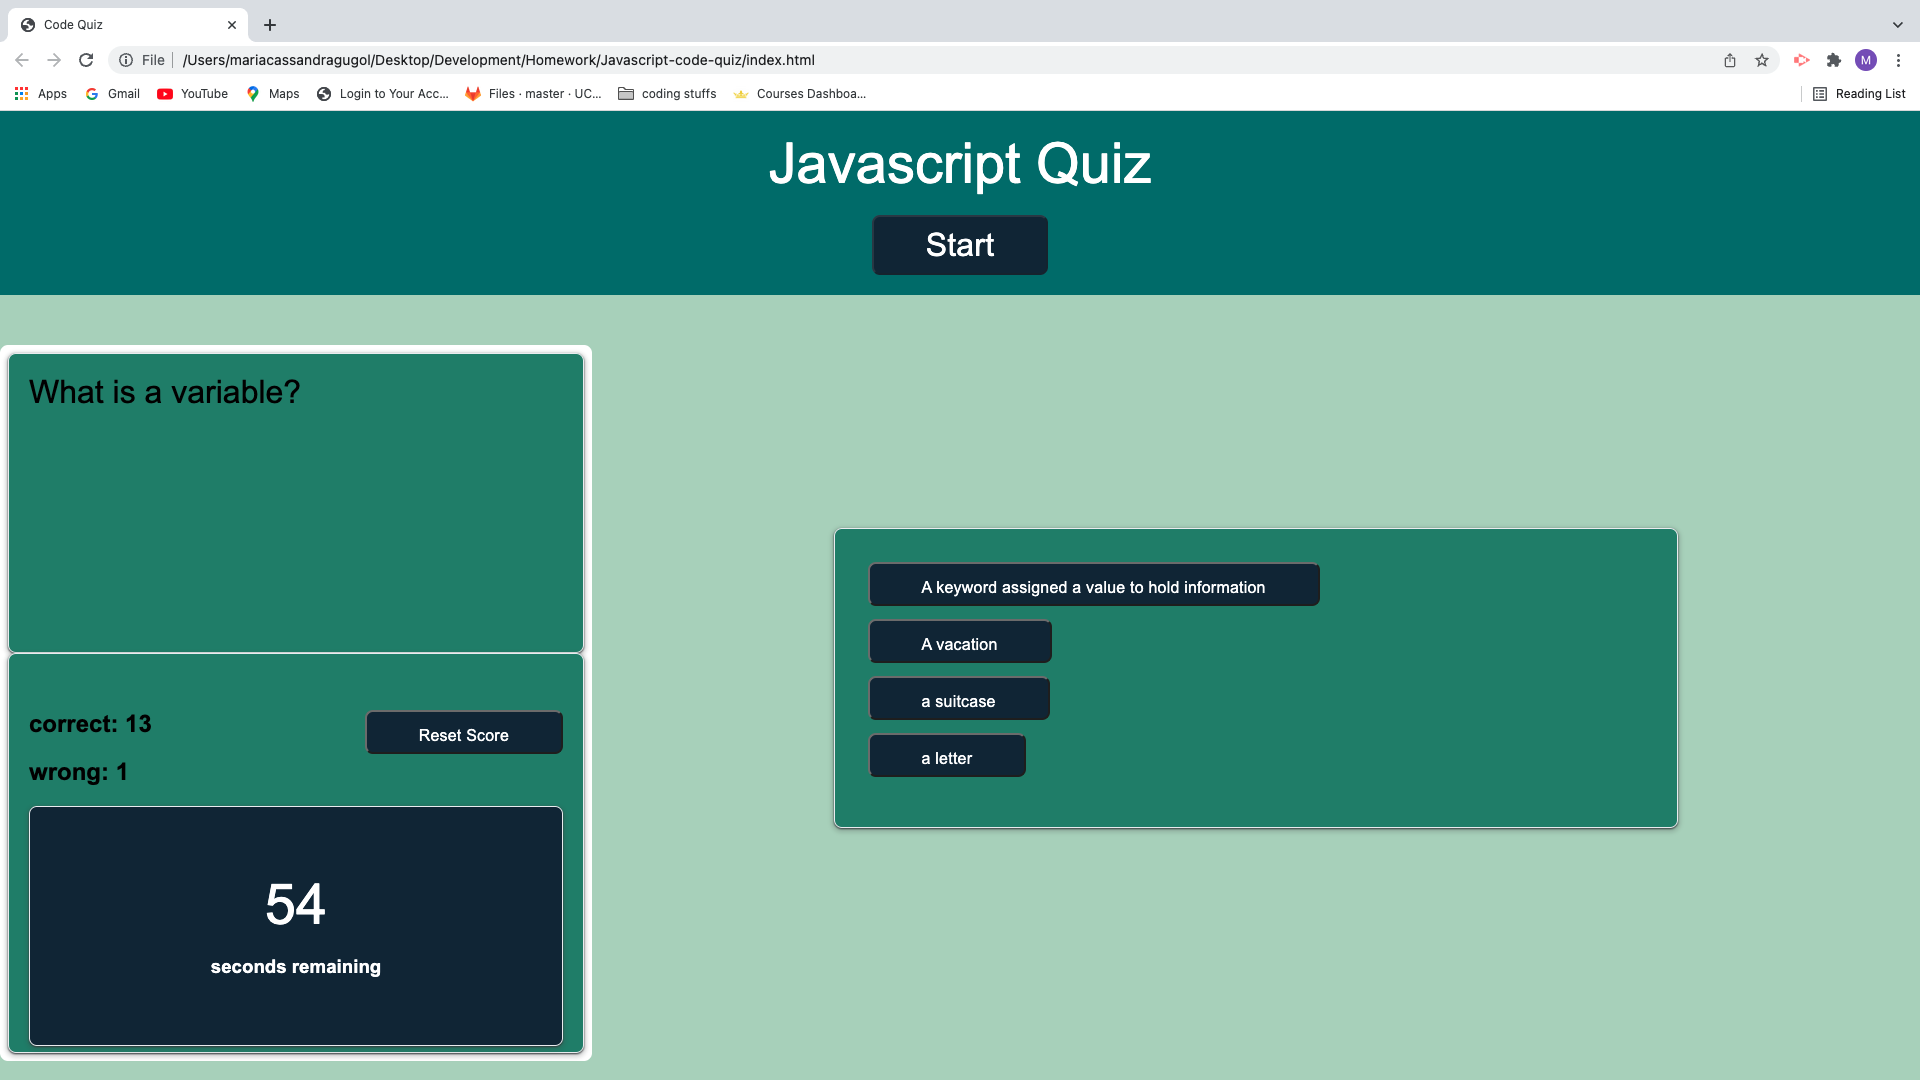
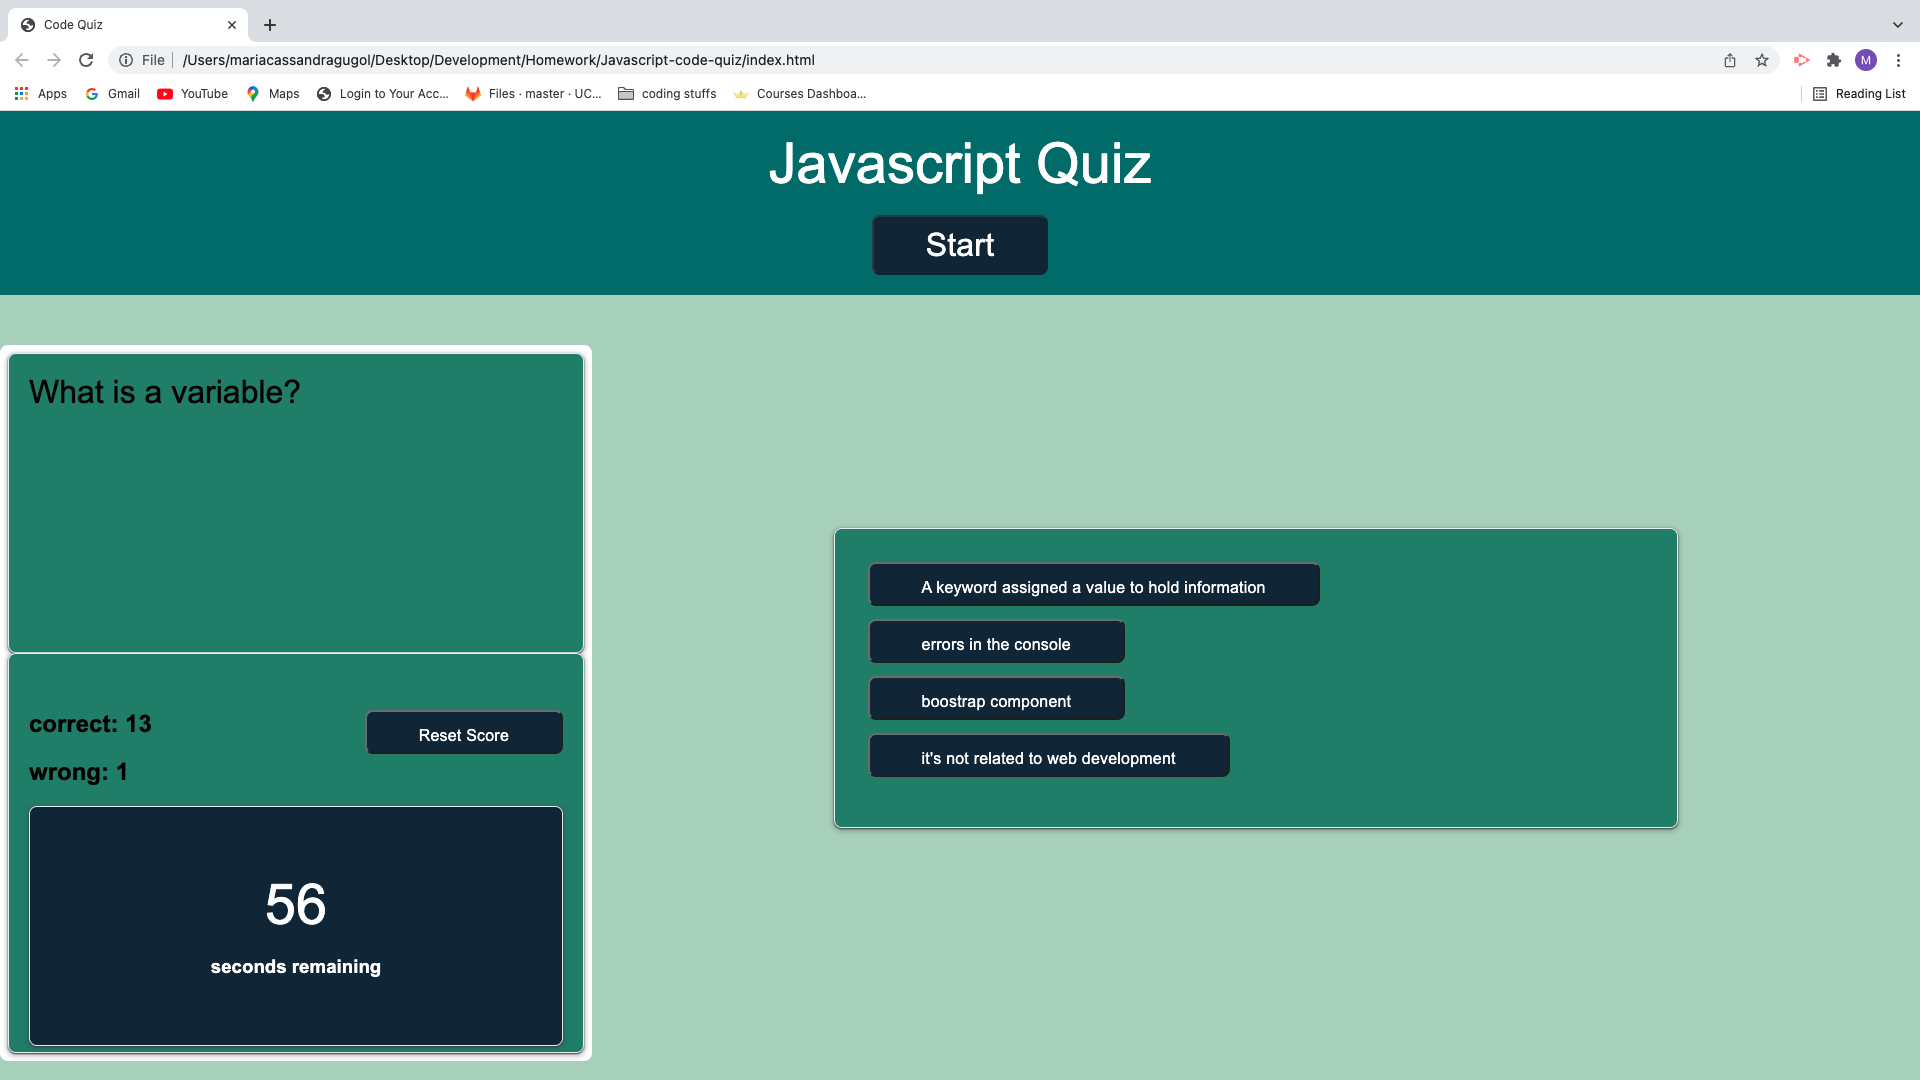
updated screenshot

Changed region(s): [[0.4688, 0.55, 0.6562, 0.7333], [0.1562, 0.825, 0.1875, 0.8556]]

diff --git a/script.js b/script.js
@@ -14,7 +14,7 @@ let currentQuestionIndex;
 var questions = [
     {
         questionText: "What is a variable?",
-        answers: ["A keyword assigned a value to hold information", "A vacation", "a suitcase", "a letter"],
+        answers: ["A keyword assigned a value to hold information", "errors in the console", "boostrap component", "it's not related to web development"],
         correct: "A keyword assigned a value to hold information"
     },
     {
